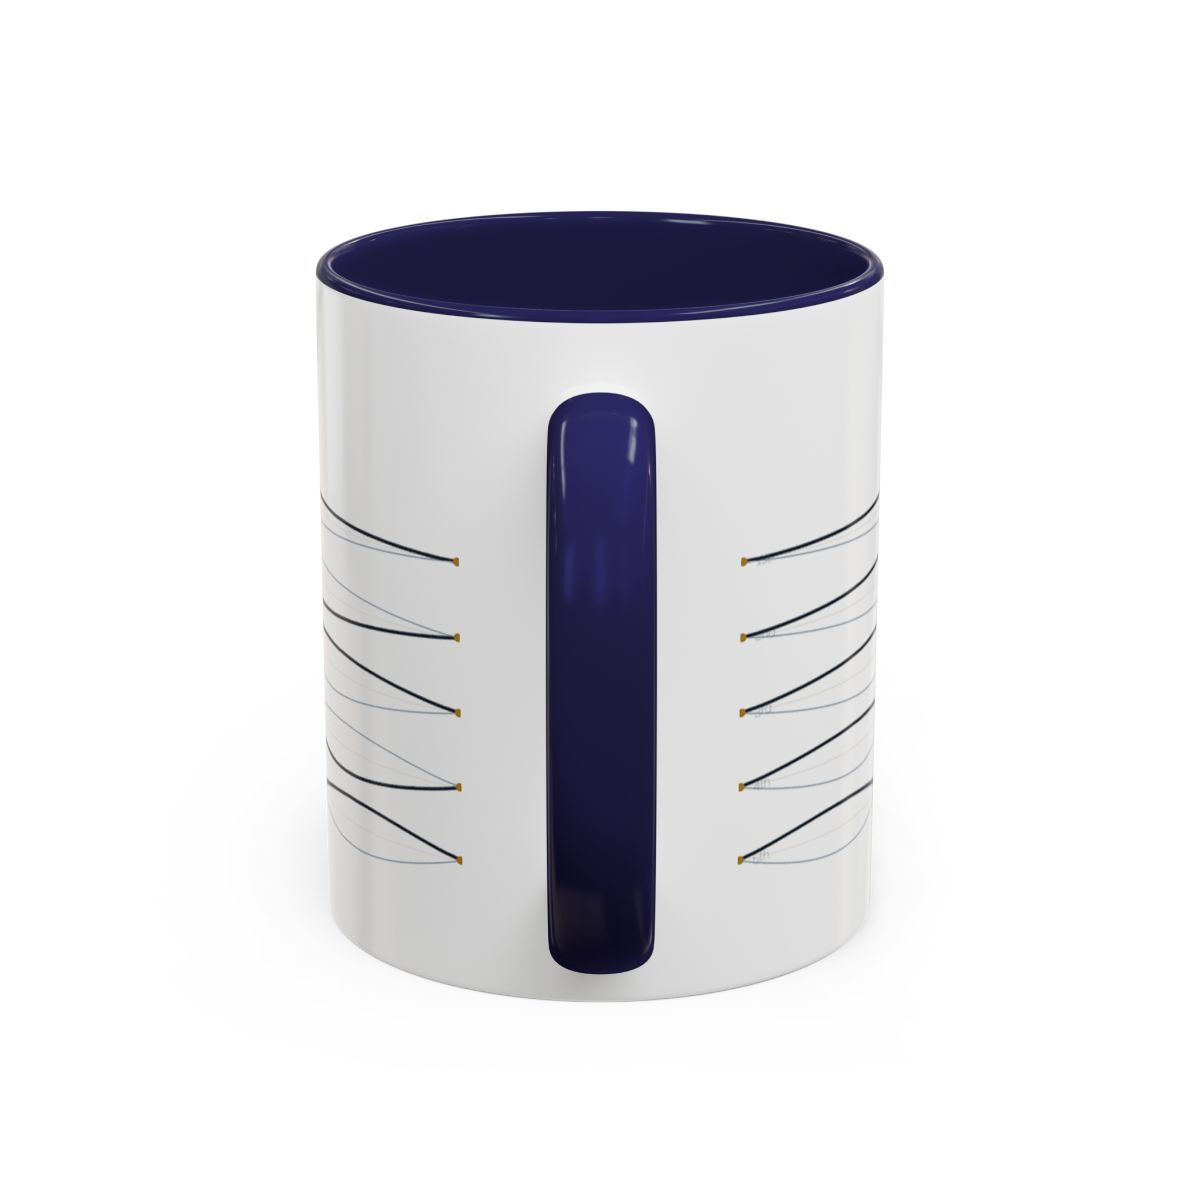
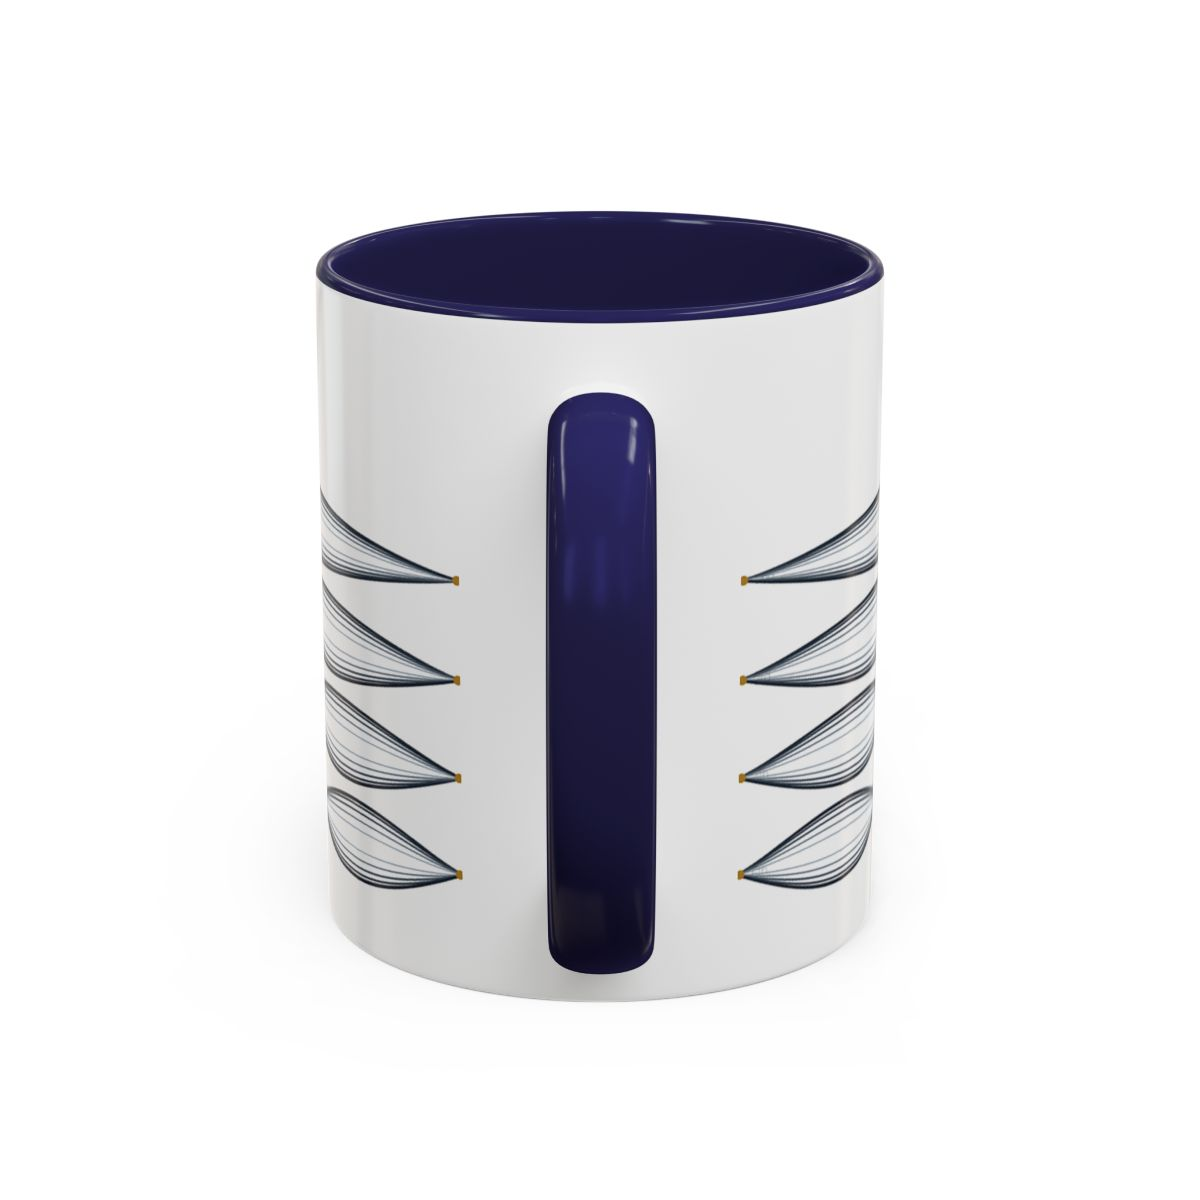
Enrich Sine Wave + Harmonics mug designs (more wave variation)
Sine Wave -> Superposition: two sine waves and their beat (dense oscillation
that swells/pinches), retitled/retagged. Harmonics: vibrating string drawn at
many phases into woven spindles. Both live Printify products updated in place
and republished to their Etsy listings (add update_one + 'update' command).

Claude-Session: https://claude.ai/code/session_01H2HkvfGi1sYBsuUMaK5vgt

Changed region(s): [[0.6167, 0.4008, 0.74, 0.74], [0.2467, 0.4317, 0.4008, 0.74]]

diff --git a/printify/mug_designs.py b/printify/mug_designs.py
@@ -86,40 +86,38 @@ def _brand(d, s):
 
 # ── design 1: UNROLLED — unit circle → one full sine period ────────────────────
 def d_unrolled():
+    """Superposition / beats — two sine waves and their sum. Dense oscillation
+    with an amplitude that swells and pinches around the mug (seamless)."""
     im, d = _canvas(); w, h = W*SS, H*SS
-    mid = int(h*0.55)
-    amp = int(h*0.26)
-    # baseline
+    mid = int(h*0.56); amp = int(h*0.31)
     d.line([(0, mid), (w, mid)], fill=FAINT, width=SS)
-    # tick grid at 0, π/2, π, 3π/2, 2π
-    labels = ["0", "π/2", "π", "3π/2", "2π"]
-    for i, lab in enumerate(labels):
-        x = int(w * i / 4)
-        xx = min(max(x, SS), w-SS)
-        d.line([(xx, mid-14*SS), (xx, mid+14*SS)], fill=MUTE, width=SS)
-        d.text((xx, mid+40*SS), lab, font=SYM(int(30*SS)),
-               fill=SOFT, anchor="ma" if 0 < i < 4 else ("la" if i == 0 else "ra"))
-    # one full sine period across the whole wrap (seamless: sin0 = sin2π = 0)
-    xs = np.linspace(0, w, 3000)
-    ys = mid - amp*np.sin(2*np.pi*xs/w)
-    d.line(_poly(xs, ys), fill=INK, width=int(9*SS), joint="curve")
-    # unit circle "key" on the left
-    ccx, ccy, cr = int(w*0.115), mid, amp
-    d.ellipse([ccx-cr, ccy-cr, ccx+cr, ccy+cr], outline=GOLD, width=int(5*SS))
-    d.line([(ccx-cr, ccy), (ccx+cr, ccy)], fill=FAINT, width=SS)
-    d.line([(ccx, ccy-cr), (ccx, ccy+cr)], fill=FAINT, width=SS)
-    th = np.radians(52)
-    px, py = ccx+cr*np.cos(th), ccy-cr*np.sin(th)
-    d.line([(ccx, ccy), (px, py)], fill=INK, width=int(5*SS))       # radius
-    d.ellipse([px-11*SS, py-11*SS, px+11*SS, py+11*SS], fill=GOLD)  # point
-    # dotted projection: circle point height -> onto the wave
-    for xd in range(int(ccx), int(w*0.30), int(26*SS)):
-        d.ellipse([xd-2*SS, py-2*SS, xd+2*SS, py+2*SS], fill=MUTE)
+    xs = np.linspace(0, w, 5000)
+    t = 2*np.pi*xs/w
+    f1, f2 = 5, 7                      # close freqs -> beats; integers = seamless
+    w1, w2 = np.sin(f1*t), np.sin(f2*t)
+    s = w1 + w2                        # = 2 cos(t) sin(6t): carrier 6, envelope cos t
+    sc = amp/2.0
+    gold_soft = tuple(int(a*0.5 + b*0.5) for a, b in zip(GOLD, WHITE))
+    gray_soft = (150, 160, 172)
+    # faint component waves
+    d.line(_poly(xs, mid - sc*w1), fill=gray_soft, width=int(3*SS), joint="curve")
+    d.line(_poly(xs, mid - sc*w2), fill=gold_soft, width=int(3*SS), joint="curve")
+    # beat envelope ±amp·|cos t| as gold dotted guides
+    env = amp*np.cos(t)
+    epts = _poly(xs, mid - env) + _poly(xs, mid + env)
+    for k in range(0, len(epts), 34):
+        x, y = epts[k]; d.ellipse([x-2*SS, y-2*SS, x+2*SS, y+2*SS], fill=GOLD)
+    # bold resultant sum
+    d.line(_poly(xs, mid - sc*s), fill=INK, width=int(9*SS), joint="curve")
+    # beat nodes (where the envelope pinches: t = π/2, 3π/2) in gold
+    for frac in (0.25, 0.75):
+        nx = int(w*frac)
+        d.ellipse([nx-8*SS, mid-8*SS, nx+8*SS, mid+8*SS], fill=GOLD)
     # captions
-    _title_sin_theta(d, int(w*0.5), int(h*0.14), int(64*SS))
-    d.text((int(w*0.5), int(h*0.235)), "one turn of the mug — one full wave",
-           font=RALI(int(30*SS)), fill=SOFT, anchor="mm")
-    _brand(d, "unrolled")
+    d.text((int(w*0.5), int(h*0.135)), "Superposition", font=CIN(int(58*SS)), fill=INK, anchor="mm")
+    d.text((int(w*0.5), int(h*0.225)), "two waves and their sum — the beat wraps the mug",
+           font=RALI(int(29*SS)), fill=SOFT, anchor="mm")
+    _brand(d, "superposition")
     return _finish(im, "unrolled")
 
 
@@ -156,28 +154,41 @@ def d_fourier():
     return _finish(im, "fourier")
 
 
-# ── design 3: HARMONICS — standing modes of a string, nodes at the seam ────────
+# ── design 3: HARMONICS — vibrating string caught in motion (woven spindles) ───
+def _blend(c1, c2, t):
+    return tuple(int(c1[i]*(1-t) + c2[i]*t) for i in range(3))
+
+
 def d_harmonics():
+    """Each mode drawn at many time phases, so the string fills with woven
+    spindle/lens shapes between its nodes — dense and alive, still seamless."""
     im, d = _canvas(); w, h = W*SS, H*SS
-    modes = [1, 2, 3, 4, 5]
-    top, bot = int(h*0.30), int(h*0.86)
+    modes = [2, 3, 4, 5]
+    top, bot = int(h*0.31), int(h*0.90)
     band = (bot - top) / len(modes)
-    xs = np.linspace(0, w, 3000)
-    ords = ["1st", "2nd", "3rd", "4th", "5th"]
+    xs = np.linspace(0, w, 2600)
+    ords = {2: "2nd", 3: "3rd", 4: "4th", 5: "5th"}
+    LIGHT = (196, 205, 214)
+    phases = np.linspace(0, np.pi, 13)         # cos(ph): +1 … 0 … −1
     for i, n in enumerate(modes):
-        cy = int(top + band*(i+0.5)); a = int(band*0.34)
-        d.line([(0, cy), (w, cy)], fill=FAINT, width=SS)
-        # standing mode sin(nπ x/L): both ends = 0 -> seamless at the seam
-        env = a*np.sin(n*np.pi*xs/w)
-        d.line(_poly(xs, cy - env), fill=INK, width=int(6*SS), joint="curve")
-        d.line(_poly(xs, cy + env), fill=(150,160,170), width=int(2*SS), joint="curve")
-        # nodes (gold dots) where the mode crosses zero
+        cy = int(top + band*(i+0.5)); a = band*0.42
+        shape = np.sin(n*np.pi*xs/w)           # standing mode (ends at 0 -> seamless)
+        # woven family of snapshots
+        for ph in phases:
+            c = np.cos(ph)
+            if abs(c) < 0.02:
+                continue
+            tcol = abs(c)                       # bold at the extremes, pale mid-swing
+            col = _blend(LIGHT, INK, tcol)
+            width = int((1.4 + 3.0*tcol)*SS)
+            d.line(_poly(xs, cy - a*c*shape), fill=col, width=width, joint="curve")
+        # nodes (gold) where the mode is pinned
         for kk in range(n+1):
-            nx = int(w*kk/n); nx = min(max(nx, 4*SS), w-4*SS)
-            d.ellipse([nx-7*SS, cy-7*SS, nx+7*SS, cy+7*SS], fill=GOLD)
-        d.text((int(28*SS), cy), ords[i], font=RAL(int(24*SS)), fill=SOFT, anchor="lm")
-    d.text((int(w*0.5), int(h*0.135)), "Harmonics", font=CIN(int(58*SS)), fill=INK, anchor="mm")
-    d.text((int(w*0.5), int(h*0.225)), "the vibrating string — its first five modes",
+            nx = min(max(int(w*kk/n), 5*SS), w-5*SS)
+            d.ellipse([nx-8*SS, cy-8*SS, nx+8*SS, cy+8*SS], fill=GOLD)
+        d.text((int(26*SS), cy), ords[n], font=RAL(int(23*SS)), fill=SOFT, anchor="lm")
+    d.text((int(w*0.5), int(h*0.135)), "Harmonics", font=CIN(int(56*SS)), fill=INK, anchor="mm")
+    d.text((int(w*0.5), int(h*0.222)), "a vibrating string, caught in motion",
            font=RALI(int(28*SS)), fill=SOFT, anchor="mm")
     _brand(d, "harmonics")
     return _finish(im, "harmonics")

diff --git a/printify/create_math_mug.py b/printify/create_math_mug.py
@@ -52,17 +52,17 @@ def _desc(hook, body_lines):
 
 DESIGNS = {
     "unrolled": {
-        "title": ("Sine Wave Math Mug | Unit Circle Trigonometry Coffee Mug | "
-                  "Gift for Math Teacher Student Mathematician (11oz, 15oz)"),
+        "title": ("Wave Superposition Math Mug | Sine Wave Interference Physics Coffee Mug | "
+                  "Gift for Physicist Engineer Math Teacher (11oz, 15oz)"),
         "description": _desc(
-            "Sine wave coffee mug — the unit circle unrolled into one full wave around the cup.",
+            "Wave superposition coffee mug — two sine waves and their sum, beating around the cup.",
             ["THE MATH",
-             "• The unit circle on the left unrolls into y = sin θ",
-             "• The wave spans exactly one period, 0 to 2π, around the mug",
-             "• Turn the mug and you walk through one full turn of trigonometry"]),
-        "tags": ["math mug", "sine wave", "trigonometry gift", "math teacher gift",
-                 "unit circle", "mathematician gift", "math student gift", "stem gift",
-                 "science mug", "nerdy mug", "calculus gift", "geek gift", "teacher mug"],
+             "• Two sine waves of nearby frequency add into a rich 'beat' pattern",
+             "• The resultant swells and pinches — sin 5x + sin 7x = 2 cos x · sin 6x",
+             "• The beat closes on itself around the mug, seamless at the handle"]),
+        "tags": ["math mug", "sine wave", "wave physics", "superposition",
+                 "physics mug", "interference", "gift for physicist", "stem gift",
+                 "science mug", "nerdy mug", "engineer gift", "mathematician gift", "teacher mug"],
     },
     "fourier": {
         "title": ("Fourier Series Math Mug | Square Wave Harmonics Physics Coffee Mug | "
@@ -135,6 +135,36 @@ def create_one(key):
     return prod
 
 
+def update_one(key, update_copy=True):
+    """Replace the print image (and optionally title/desc/tags) on the existing
+    Printify product for `key`, then republish to sync the live Etsy listing."""
+    meta_path = os.path.join(MOCK, "mugs_created.json")
+    meta = json.load(open(meta_path))
+    pid = meta[key]["product_id"]
+    d = DESIGNS[key]
+    print(f"\n=== updating mug: {key} ({pid}) ===")
+    img_id = pp.upload_image(_wrap_path(key), f"mug_{key}_wrap.png")
+    existing = pp._req("GET", f"/shops/{pp.SHOP_ID}/products/{pid}.json")
+    all_vids = [v["id"] for v in existing.get("variants", [])]   # print area must cover all
+    payload = {
+        "print_areas": [{
+            "variant_ids": all_vids,
+            "placeholders": [{
+                "position": POSITION,
+                "images": [{"id": img_id, "x": 0.5, "y": 0.5, "scale": 1.0, "angle": 0}],
+            }],
+        }],
+    }
+    if update_copy:
+        payload["title"] = d["title"]
+        payload["description"] = d["description"]
+        payload["tags"] = d["tags"]
+    pp._req("PUT", f"/shops/{pp.SHOP_ID}/products/{pid}.json", payload)
+    print("  updated; republishing to Etsy…")
+    pp.publish_product(pid)
+    return pid
+
+
 def _save_meta(key, prod):
     meta_path = os.path.join(MOCK, "mugs_created.json")
     data = {}
@@ -189,6 +219,11 @@ if __name__ == "__main__":
         keys = list(DESIGNS) if which == "all" else [which]
         for k in keys:
             create_one(k)
+    elif cmd == "update" and len(sys.argv) > 2:
+        which = sys.argv[2]
+        keys = list(DESIGNS) if which == "all" else [which]
+        for k in keys:
+            update_one(k, update_copy=(k == "unrolled"))
     elif cmd == "mockups" and len(sys.argv) > 2:
         download_mockups(sys.argv[2], sys.argv[3] if len(sys.argv) > 3 else None)
     elif cmd == "publish" and len(sys.argv) > 2:
